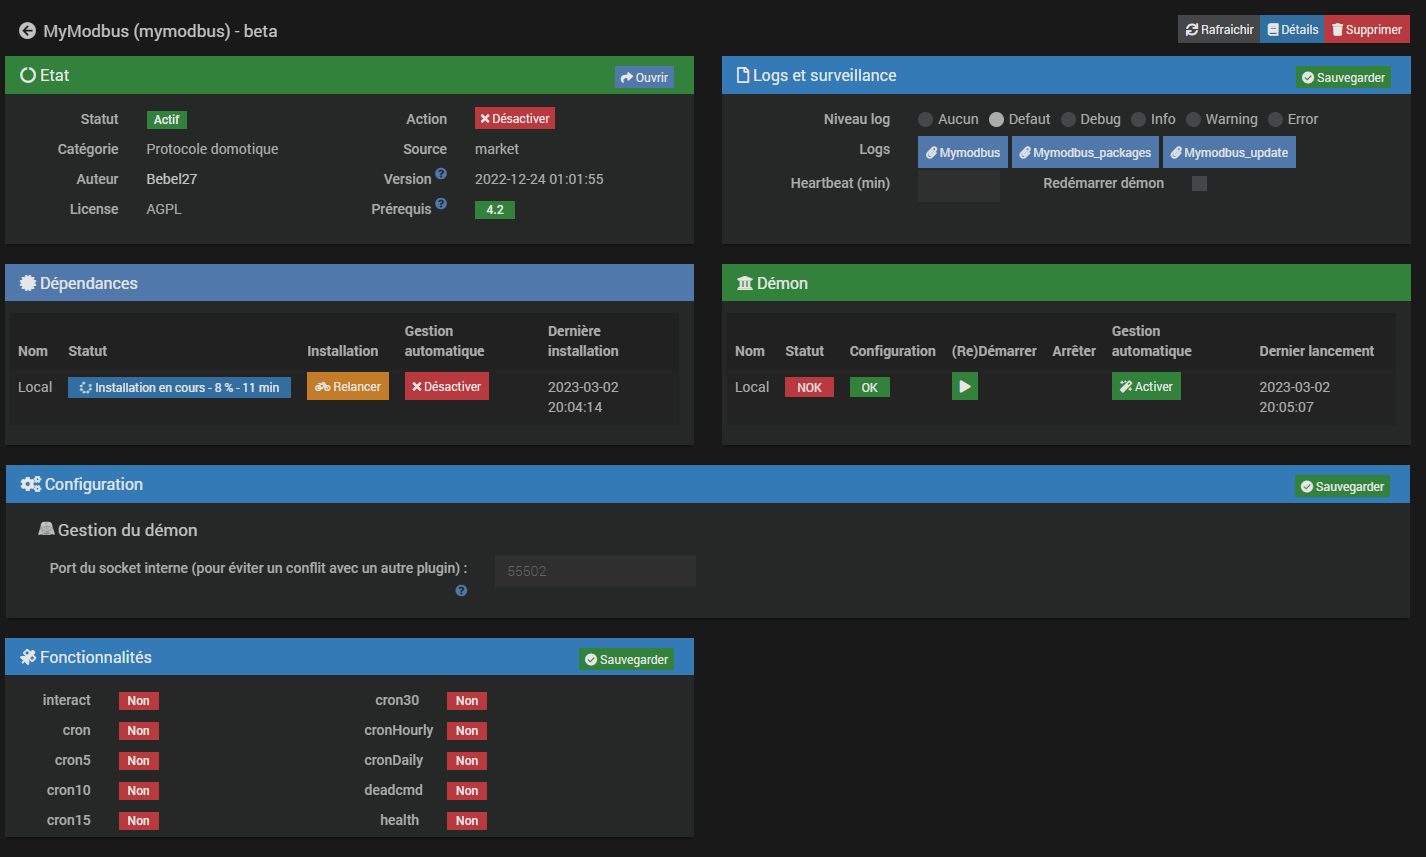
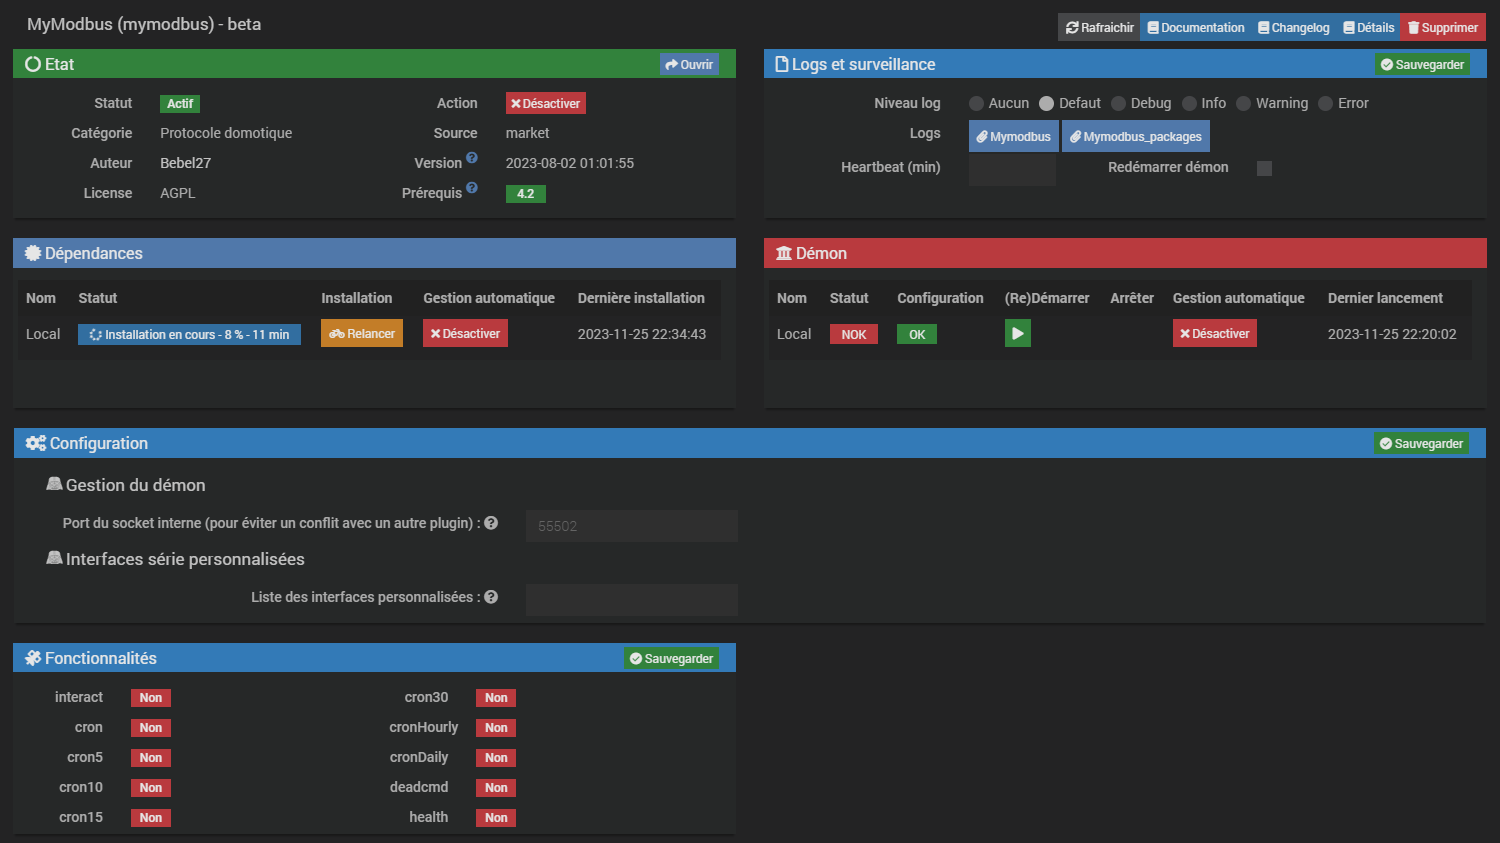
## 26/11/2023 V2.0 beta25 - Liste des paquets à installer réduite au minimum - Passage à python V3.11.6 sous pyenv. L'étape de réinstallation des dépendances va durer plusieurs dizaines de minutes. - Retour arrière sur une modification de la version V2.0 beta24 : le fait que le démon soit "launchabl

Changed region(s): [[0.0, 0.0, 1.0, 0.987]]

diff --git a/fr_FR/changelog_b.md b/fr_FR/changelog_b.md
@@ -2,18 +2,20 @@
 
 ## TODO
 - Utiliser la dernière version de pymodbus
+- Permettre d'utiliser la même interface série, avec une configuration éventuellement différente, pour plusieurs équipements
 - Templates : exporter, importer (en json) et éventuellement éditer des templates
 - Documentation :
   - Ajouter la méthode pour la mise à l'heure des automates Crouzet et Zelio
   - Documenter les nouvelles fonctionnalités (documentation à jour avec la version V2.0 beta25)
 
-## xx/11/2023 V2.0 beta25 (à venir)
+## 26/11/2023 V2.0 beta25
 - Liste des paquets à installer réduite au minimum
-- Passage à python V3.11.6 sous pyenv
+- Passage à python V3.11.6 sous pyenv. L'étape de réinstallation des dépendances va durer plusieurs dizaines de minutes.
 - Retour arrière sur une modification de la version V2.0 beta24 : le fait que le démon soit "launchable" si plusieurs équipements utilisent le même port série
 - Mise à jour de la documentation
+- Ajout de la possibilité de personnaliser les interfaces série (idée de jmcaous trouvée sur le Community)
 
-## 06/11/2023 V2.0 beta24
+## 08/11/2023 V2.0 beta24
 - Correction erreur 500 à la sauvegarde d'un nouvel équipement (merci ksin)
 - Le démon est "launchable" si plusieurs équipements utilisent le même port série. Dans ce cas, c'est à l'utilisateur de configurer le plugin correctement (merci indirectement à ksin)
 - Petites corrections

diff --git a/fr_FR/index_b.md b/fr_FR/index_b.md
@@ -88,6 +88,21 @@ démon est actualisée.
 La configuration se fait via Plugins / Protocole domotique / MyModbus :  
 ![Accès à la configuration](../images/Menu_configuration.png)
 
+## Configuration du plugin
+
+![Configuration du plugin](../images/Configuration_plugin.png)
+
+Il est possible de modifier le port de communication interne entre le démon et le core du plugin. Par défaut, ce port
+est à 55502 et il est fortement conseillé de ne pas le modifier sauf si ce port est utilisé par un autre plugin.
+
+> :warning: ***Important***  
+> Pour modifier ce port, il faut tout d'abord stopper le démon sans quoi le plugin ne pourra plus communiquer avec le
+démon.
+
+Il est également possible de spécifier une ou plusieurs interfaces série personnalisées. Si vous en spécifiez
+plusieurs, elles doivent être séparées par des `;`. Les interface listées ici seront affichées dans la liste des
+interfaces possibles pour un équipement en liaison série à condition que ces interfaces existent.
+
 ## Création d'un équipement 
 
 C'est la première étape. Sans équipement, le démon n'est pas démarré. Après l'installation, la configuration est vide :  
